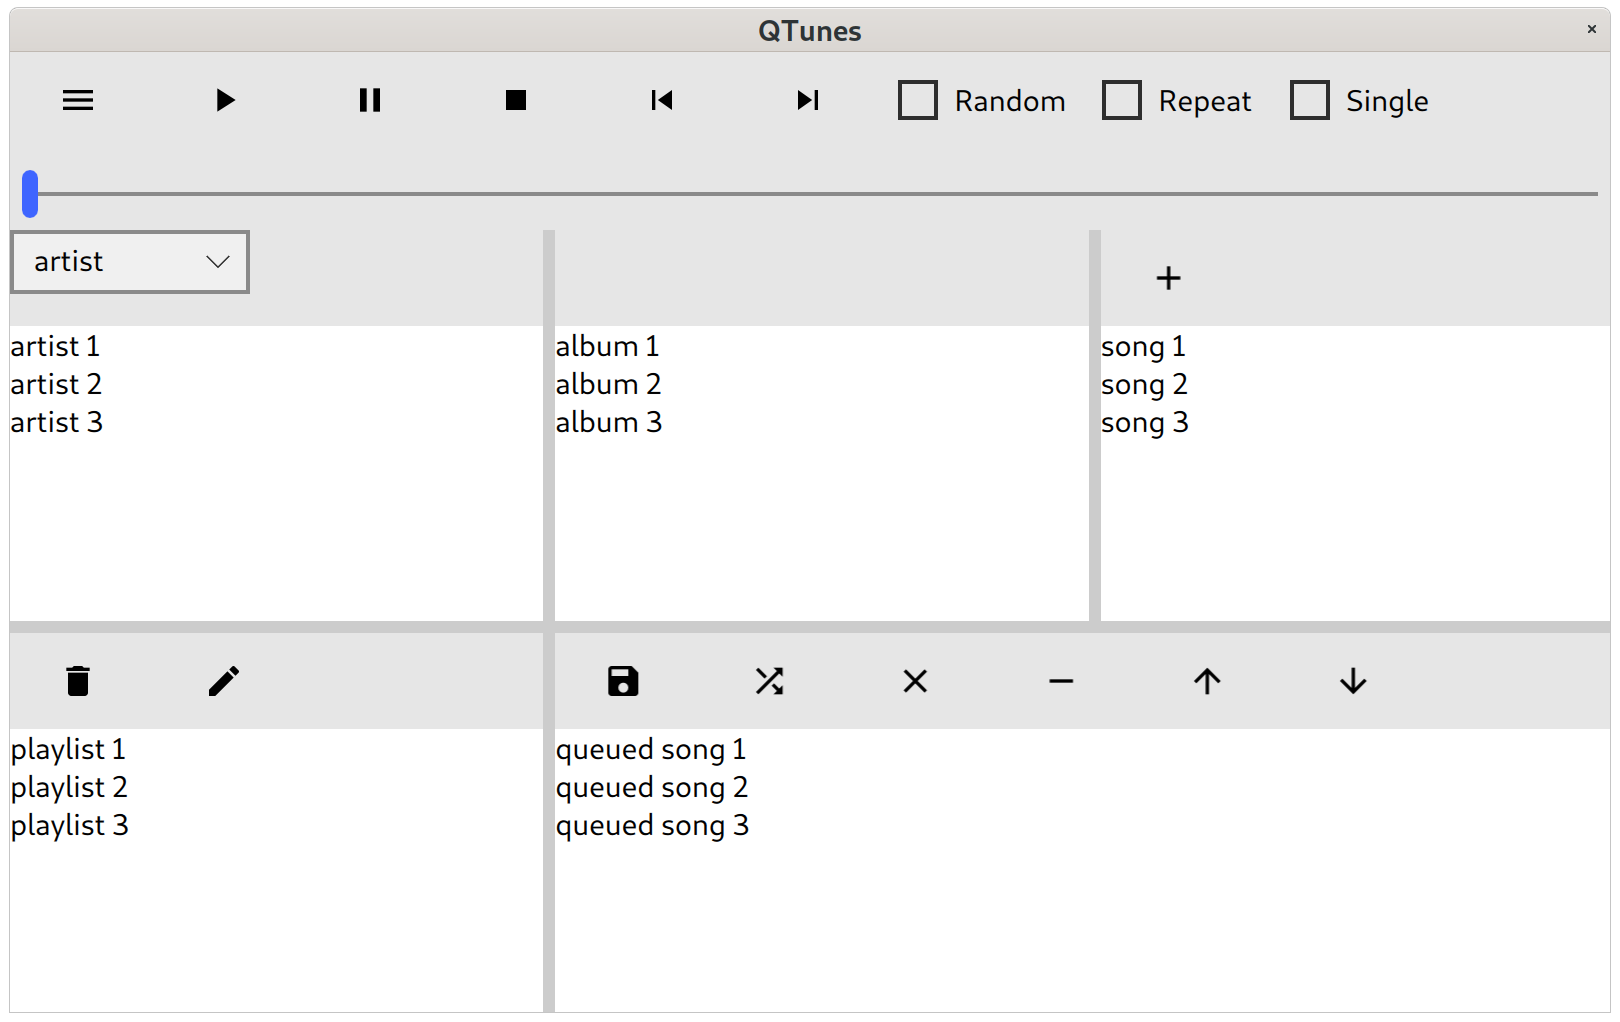
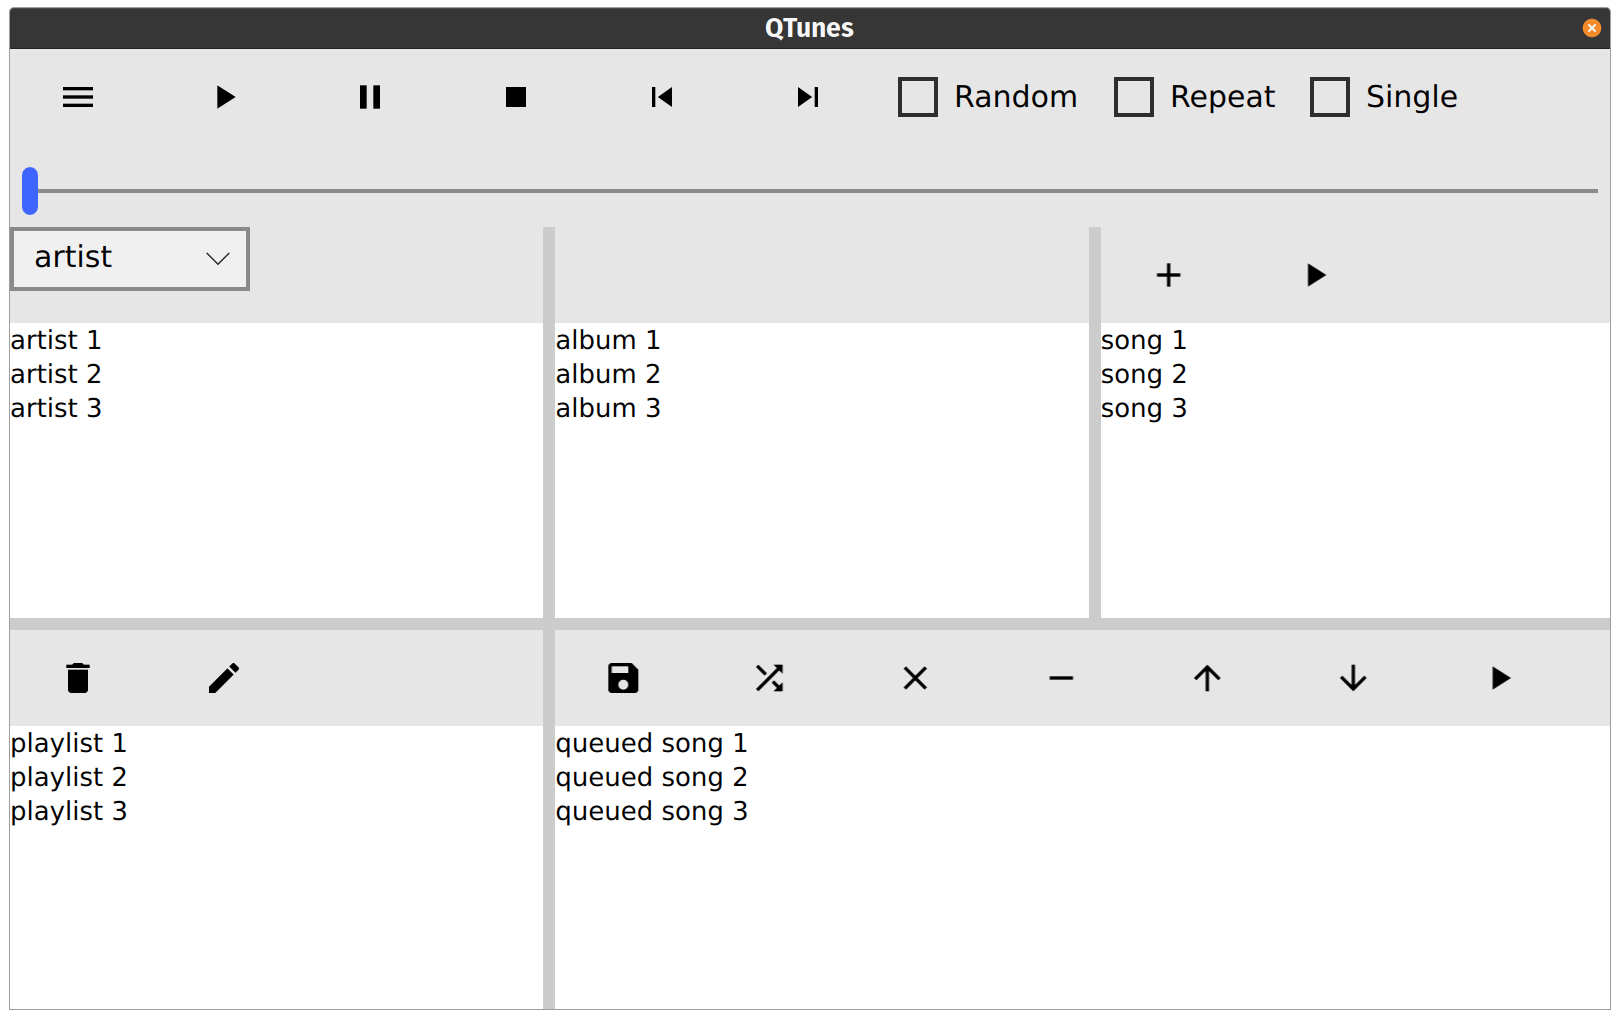
Add buttons to play selected songs

diff --git a/src/main.qml b/src/main.qml
@@ -265,6 +265,14 @@ ApplicationWindow {
                                     ToolTip.text: qsTr("Adds the selected song to the playlist")
                                     ToolTip.visible: hovered
                                 }
+
+                                ToolButton {
+                                    id: playQueuedButton
+                                    icon.source: "images/play_arrow-24px.svg"
+                                    hoverEnabled: true
+                                    ToolTip.text: qsTr("Play the selected song")
+                                    ToolTip.visible: hovered
+                                }
                             }
                         }
                     }
@@ -364,6 +372,14 @@ ApplicationWindow {
                                     hoverEnabled: true
                                     ToolTip.text: qsTr("Move the selected song down in the down in the queue
 .")
+                                    ToolTip.visible: hovered
+                                }
+
+                                ToolButton {
+                                    id: playQueuedButton
+                                    icon.source: "images/play_arrow-24px.svg"
+                                    hoverEnabled: true
+                                    ToolTip.text: qsTr("Play the selected queued song")
                                     ToolTip.visible: hovered
                                 }
                             }
